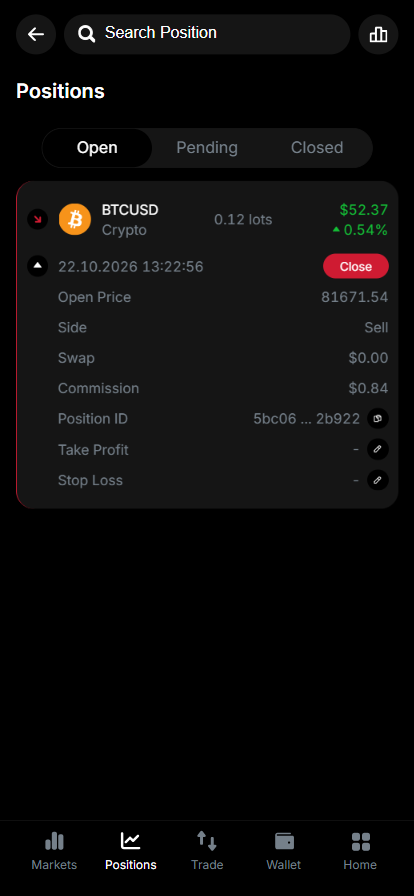
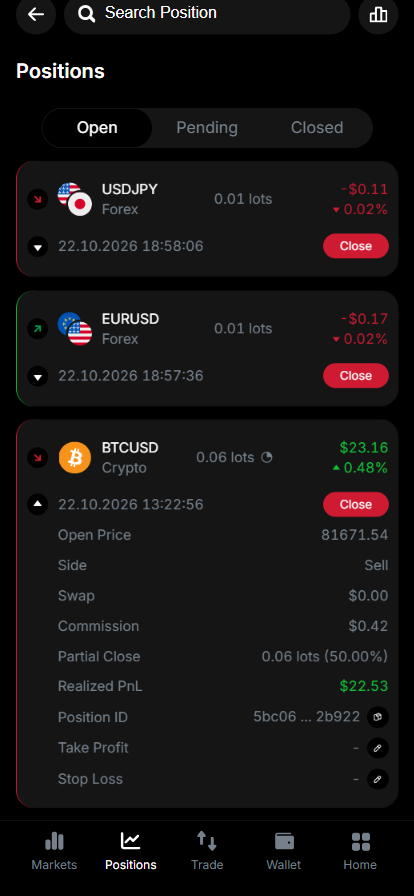
Capture the screenshots against real feature state
The previous captures could only show empty columns: no position on the demo
account had ever been partially closed, and none carried a trailing stop, so
Realized PnL was blank and the mobile card had no Partial Close row.

Put the account into the states the docs describe, then re-captured:
- BTC/USD partially closed, 0.12 -> 0.06 lots. The position kept its id and
  open price and booked $22.53 into Realized PnL, which is exactly the
  behaviour the integration pages describe.
- EUR/USD opened with a trailing stop, so its Stop Loss carries the trailing
  marker.
- USD/JPY left plain, for contrast.

The positions table now shows all three side by side in the flat view, with the
edit / reverse / partial-close / close icons on every row, and the text names
what each row is demonstrating. The mobile card shows the Partial Close row
(0.06 lots, 50.00%) and Realized PnL, plus a second card with the trailing
marker next to Stop Loss.

Checks: 387 relative links resolve, 0 broken.

diff --git a/trading-platform/web-interface-ui-ux-and-features.md b/trading-platform/web-interface-ui-ux-and-features.md
@@ -1025,6 +1025,11 @@ the controls for an individual position.
 
 ![Positions table with the Realized PnL column and the position actions](./images/positions-table-actions.png)
 
+In the list above: USD/JPY is an ordinary position, EUR/USD carries a trailing stop —
+marked by the dot next to its Stop Loss — and BTC/USD has been partially closed, so its
+**Realized PnL** column holds the booked result and its quantity carries a partial-close
+marker.
+
 ### Reverse Position
 
 Closes your current position and opens a new one in the opposite direction.

diff --git a/trading-platform/mobile-interface-ui-ux-and-features.md b/trading-platform/mobile-interface-ui-ux-and-features.md
@@ -259,6 +259,10 @@ backwards.
 
 ![Trailing SL in the mobile trade form](./images/mobile-trailing-sl.png)
 
+A position that is trailing shows a marker next to its Stop Loss on the card:
+
+![Mobile position card with a trailing stop](./images/mobile-position-trailing.png)
+
 Full mechanics are in
 [Web Interface: Trailing Stop Loss](web-interface-ui-ux-and-features.md#trailing-stop-loss).
 
